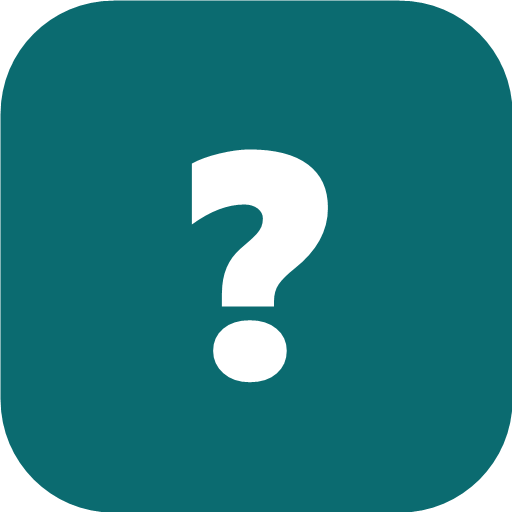
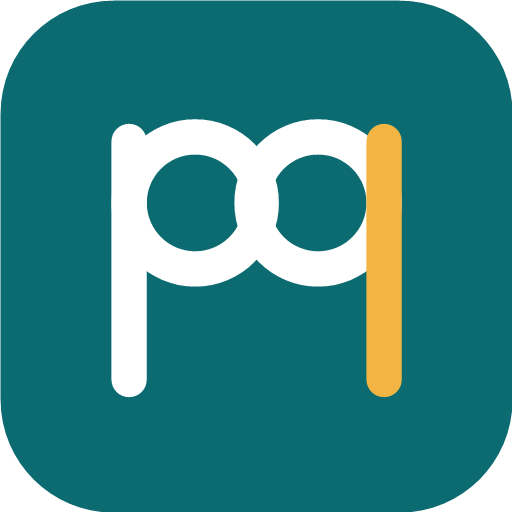
Símbolo novo: "p" e "q" espelhados (haste do q em âmbar)
Aplicado no menu e nos ícones do app.

Changed region(s): [[0.2188, 0.2188, 0.8125, 0.7812]]

diff --git a/index.html b/index.html
@@ -20,7 +20,7 @@
     <div id="sidebarBackdrop" class="sidebar-backdrop" aria-hidden="true"></div>
     <aside class="sidebar">
       <div class="brand">
-        <span class="brand-mark" aria-hidden="true">?</span>
+        <span class="brand-mark" aria-hidden="true"><svg width="28" height="28" viewBox="0 0 24 24" fill="none" stroke-linecap="round" stroke-linejoin="round"><g transform="translate(0 -1)"><circle cx="8" cy="9.5" r="4.3" stroke="#ffffff" stroke-width="2.3"></circle><circle cx="16" cy="9.5" r="4.3" stroke="#ffffff" stroke-width="2.3"></circle><path d="M3.7 5.5V21" stroke="#ffffff" stroke-width="2.3"></path><path d="M20.3 5.5V21" stroke="#f2b544" stroke-width="2.3"></path></g></svg></span>
         <div>
           <h1>Psiquiatria em Questão</h1>
           <p>Residência e título de especialista</p>

diff --git a/styles.css b/styles.css
@@ -5832,16 +5832,12 @@ body.theme-dark .primary-btn {
   color: #062124;
 }
 
+/* Símbolo: "p" e "q" espelhados, a haste do q em âmbar. Mesmo petróleo nos dois temas. */
 .brand-mark {
-  background: var(--accent);
-  color: #ffffff;
-  font-family: var(--font-display);
-  font-size: 24px;
-  font-weight: 800;
-}
-
-body.theme-dark .brand-mark {
-  color: #062124;
+  display: inline-flex;
+  align-items: center;
+  justify-content: center;
+  background: #0b6b70;
 }
 
 .brand h1 {
